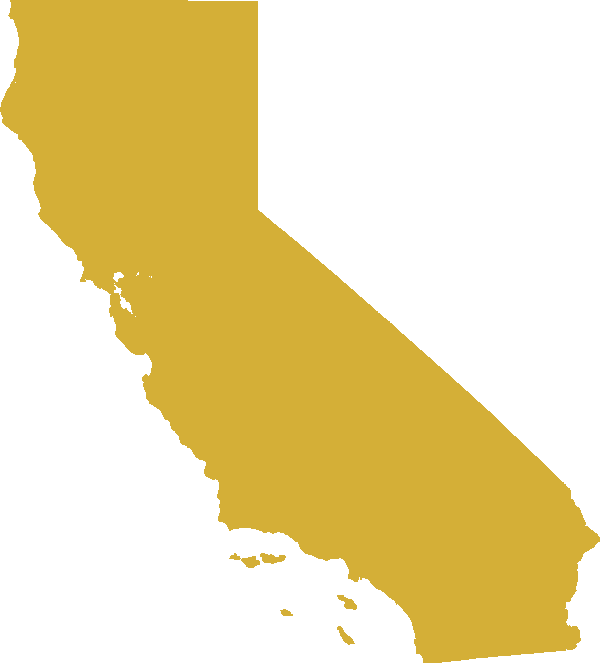
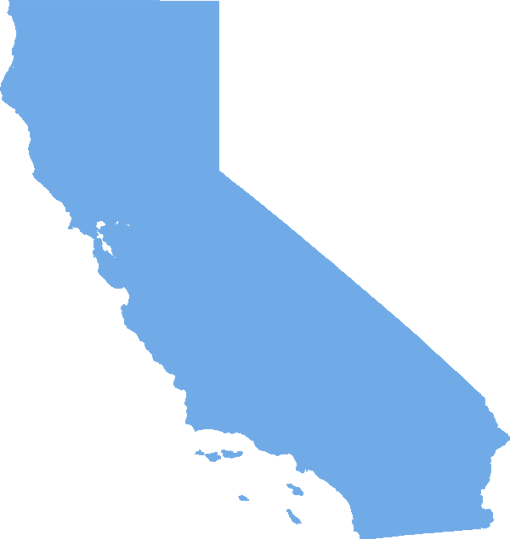
cali is blue now

diff --git a/index.html b/index.html
@@ -92,17 +92,6 @@
                     </div>
                 </div>
                 <hr>
-                <div class="row" id="disco-california" style="margin-top: 5vh;">
-                    <div class="col-xs-4 col-xs-offset-4 col-md-2 col-md-offset-0"><img class="img-responsive" src="http://s3.hfreni.space/disco/california.png" alt=""></div>
-                    <div class="col-xs-12 col-md-10">
-                        <div class="row">
-                            <div class="col-xs-12 col-sm-8 col-sm-offset-0 txt-wrapper"><h2 style="font-weight: bold;">Disco California | 523</h2></div>
-                            <div class="col-xs-12 col-sm-4 col-sm-offset-0 btn-wrapper"><div class="btn-gold">View Team</div></div>
-                        </div>
-                        Discobots California was founded after the 2015-2016 season. Their members have participated in VEX previously under team numbers 62 (Skyrise) and 1104H (Nothing but Net). Now they run 523 (VRC) and 532 (IQ) with 4 teams on their roster.
-                    </div>
-                </div>
-                <hr>
                 <div class="row" id="disco-galveston" style="margin-top: 5vh;">
                     <div class="col-xs-4 col-xs-offset-4 col-md-2 col-md-offset-0"><img class="img-responsive" src="http://s3.hfreni.space/disco/galveston-wave.png" alt=""></div>
                     <div class="col-xs-12 col-md-10">
@@ -122,6 +111,17 @@
                             <div class="col-xs-12 col-sm-4 col-sm-offset-0 btn-wrapper"><div class="btn-red">View Team</div></div>
                         </div>
                         Discobots Crossfire was founded after the Skyrise season. VEX Robotics Team 60X is from Garland, Texas
+                    </div>
+                </div>
+                <hr>
+                <div class="row" id="disco-california" style="margin-top: 5vh;">
+                    <div class="col-xs-4 col-xs-offset-4 col-md-2 col-md-offset-0"><img class="img-responsive" src="imgs/california.png" alt=""></div>
+                    <div class="col-xs-12 col-md-10">
+                        <div class="row">
+                            <div class="col-xs-12 col-sm-8 col-sm-offset-0 txt-wrapper"><h2 style="font-weight: bold;">Disco California | 523</h2></div>
+                            <div class="col-xs-12 col-sm-4 col-sm-offset-0 btn-wrapper"><div class="btn-blue">View Team</div></div>
+                        </div>
+                        Discobots California was founded after the 2015-2016 season. Their members have participated in VEX previously under team numbers 62 (Skyrise) and 1104H (Nothing but Net). Now they run 523 (VRC) and 532 (IQ) with 4 teams on their roster.
                     </div>
                 </div>
             </div>
